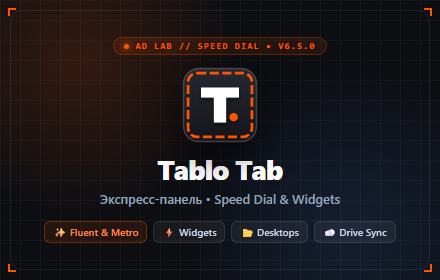
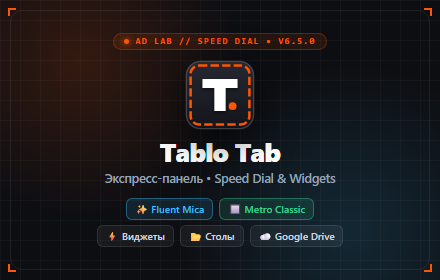
Fix syntax errors, update styles to Fluent Mica & Metro Classic, pre-render description/changelog in DOM, update promo tile tags

Changed region(s): [[0.0886, 0.1143, 0.8864, 0.8857]]

diff --git a/project-0001/index.html b/project-0001/index.html
@@ -334,7 +334,35 @@
         </h3>
 
         <div class="space-y-4 text-sm font-sans-ui text-[var(--text)] leading-relaxed" id="txt-full-article">
-          <!-- Генерируется через JS для RU/EN -->
+          <p>
+            <strong>Tablo Tab</strong> — авторское браузерное расширение нового поколения, превращающее стандартную новую вкладку Chromium в эстетичную, молниеносную персональную приборную панель с нулевым временем задержки при открытии.
+          </p>
+          <div class="grid grid-cols-1 md:grid-cols-2 gap-4 my-4 font-mono text-xs">
+            <div class="p-4 bg-[var(--panel-inner)] border border-[var(--border)] rounded-sm space-y-2">
+              <div class="text-[var(--tech-orange)] font-bold text-sm">ВИРТУАЛЬНЫЕ РАБОЧИЕ СТОЛЫ</div>
+              <p class="text-[var(--text-muted)] font-sans-ui">
+                Создавайте неограниченное число рабочих пространств (Workspaces): для работы, учебы, хобби или развлечений. Разделяйте закладки в 1 клик без визуального шума.
+              </p>
+            </div>
+            <div class="p-4 bg-[var(--panel-inner)] border border-[var(--border)] rounded-sm space-y-2">
+              <div class="text-[var(--tech-orange)] font-bold text-sm">4 ИНТЕРАКТИВНЫХ ВИДЖЕТА</div>
+              <p class="text-[var(--text-muted)] font-sans-ui">
+                Точное время с секундной стрелкой, живая погода без сторонних ключей API, актуальные котировки валют (USD, EUR, CNY) и криптовалют (BTC, ETH), а также быстрый To-Do блокнот.
+              </p>
+            </div>
+            <div class="p-4 bg-[var(--panel-inner)] border border-[var(--border)] rounded-sm space-y-2">
+              <div class="text-[var(--tech-orange)] font-bold text-sm">ПРИВАТНОСТЬ И БЕЗОПАСНОСТЬ</div>
+              <p class="text-[var(--text-muted)] font-sans-ui">
+                Никаких скрытых трекеров, аналитики и рекламных баннеров. Все данные хранятся локально в кэше браузера без отправки на серверы третьих лиц.
+              </p>
+            </div>
+            <div class="p-4 bg-[var(--panel-inner)] border border-[var(--border)] rounded-sm space-y-2">
+              <div class="text-[var(--tech-orange)] font-bold text-sm">БЭКАП НА GOOGLE ДИСК</div>
+              <p class="text-[var(--text-muted)] font-sans-ui">
+                Прямая авторизация через официальный OAuth2 API Google: бэкап и восстановление данных на ваш личный Google Диск в приватную защищенную папку расширения.
+              </p>
+            </div>
+          </div>
         </div>
       </section>
 
@@ -345,7 +373,45 @@
         </h3>
 
         <div class="space-y-4 font-mono text-xs" id="changelog-list">
-          <!-- Генерируется через JS для RU/EN -->
+          <div class="p-4 bg-[var(--panel-inner)] border border-[var(--border)] rounded-sm space-y-2">
+            <div class="flex items-center justify-between border-b border-[var(--border)] pb-2">
+              <span class="text-emerald-500 font-extrabold text-sm">v6.5.0 (Ноябрь 2026)</span>
+              <span class="text-xs bg-emerald-500/10 text-emerald-500 px-2 py-0.5 border border-emerald-500/30 font-bold">GLOBAL & FLUENT UPDATE</span>
+            </div>
+            <ul class="list-disc pl-5 space-y-1 text-[var(--text-muted)] font-sans-ui text-xs">
+              <li><strong>Независимый выбор формы:</strong> текстура («Чистое стекло» или «Классические» плитки) и скругление (0px – 24px) настраиваются отдельно.</li>
+              <li><strong>Синхронное скругление интерфейса:</strong> окно настроек и карточки динамически повторяют радиус скругления ваших плиток.</li>
+              <li><strong>Размер плиток в пикселях:</strong> живое масштабирование и пресеты 180px, 220px, 260px, 320px прямо на столе.</li>
+              <li><strong>Обновленная светлая тема (Light Silk):</strong> высокая контрастность, полупрозрачные белые контекстные меню и читаемые шрифты.</li>
+              <li><strong>Улучшенные смарт-виджеты:</strong> Блокнот, Погода и Курсы валют идеально сочетаются по стилю и скруглению с плитками сайтов.</li>
+              <li><strong>Скоростной Cloudflare-прокси:</strong> глобальная стабильность виджета погоды и умная локализация городов (Москва / London).</li>
+            </ul>
+          </div>
+
+          <div class="p-4 bg-[var(--panel-inner)] border border-[var(--border)] rounded-sm space-y-2">
+            <div class="flex items-center justify-between border-b border-[var(--border)] pb-2">
+              <span class="text-[var(--text-muted)] font-extrabold text-sm">v6.4.1 (19 октября 2026)</span>
+              <span class="text-xs bg-[var(--border)] text-[var(--text-muted)] px-2 py-0.5 border border-[var(--border)] font-bold">ПРЕДЫДУЩИЙ РЕЛИЗ</span>
+            </div>
+            <ul class="list-disc pl-5 space-y-1 text-[var(--text-muted)] font-sans-ui text-xs">
+              <li>Официальная релизная сборка для публикации в Google Chrome Web Store.</li>
+              <li>Поддержка стилей Fluent Mica и Metro Classic.</li>
+              <li>Интеграция 4 живых виджетов: Часы, Погода с геопозицией, Курсы валют, Блокнот.</li>
+              <li>Бесшовная OAuth2 синхронизация с личным хранилищем Google Диск.</li>
+            </ul>
+          </div>
+
+          <div class="p-4 bg-[var(--panel-inner)] border border-[var(--border)] rounded-sm space-y-2">
+            <div class="flex items-center justify-between border-b border-[var(--border)] pb-2">
+              <span class="text-[var(--tech-orange)] font-extrabold text-sm">v6.0.0 (Сентябрь 2026)</span>
+              <span class="text-xs bg-[var(--stamp-bg)] text-[var(--tech-orange)] px-2 py-0.5 border border-[var(--tech-orange)]/30 font-bold">АРХИТЕКТУРНЫЙ АПГРЕЙД</span>
+            </div>
+            <ul class="list-disc pl-5 space-y-1 text-[var(--text-muted)] font-sans-ui text-xs">
+              <li>Полный переход расширения на современный стандарт Chrome Manifest V3.</li>
+              <li>Создана система виртуальных рабочих пространств (Workspaces) с drag-and-drop сортировкой.</li>
+              <li>Добавлено быстрое сохранение вкладок через контекстное меню браузера.</li>
+            </ul>
+          </div>
         </div>
       </section>
 
@@ -732,9 +798,6 @@
       if (btn5) btn5.textContent = (lang === 'ru') ? '5. Виджеты' : '5. Smart Widgets';
 
       setScreenshot(currentScrIdx);
-      applyTheme(currentTheme);
-      localStorage.setItem('adlab_lang', lang);
-    }
       applyTheme(currentTheme);
       localStorage.setItem('adlab_lang', lang);
     }

diff --git a/index.html b/index.html
@@ -233,11 +233,6 @@
 
           <div class="mt-3.5 relative overflow-hidden rounded-sm border border-[var(--border-subtle)] bg-black/40">
             <img src="assets/img/promo_tile_440x280.png" alt="Tablo Tab Preview" class="w-full h-44 sm:h-48 object-cover group-hover:scale-[1.02] transition-transform duration-300">
-            <div class="absolute bottom-2 left-2 flex flex-wrap gap-1 text-[9px] font-mono">
-              <span class="px-1.5 py-0.5 bg-black/80 backdrop-blur-sm text-blue-400 border border-blue-500/30">Fluent Mica</span>
-              <span class="px-1.5 py-0.5 bg-black/80 backdrop-blur-sm text-cyan-400 border border-cyan-500/30">Metro Classic</span>
-              <span class="px-1.5 py-0.5 bg-black/80 backdrop-blur-sm text-amber-400 border border-amber-500/30">OAuth2 Drive</span>
-            </div>
           </div>
 
           <div class="mt-3.5">
@@ -252,7 +247,7 @@
 
           <div class="mt-3.5 bg-[var(--panel-inner)] p-2.5 sm:p-3 border border-[var(--border)] space-y-1.5 font-mono text-[11px]">
             <div class="flex justify-between"><span class="text-[var(--text-muted)]" id="p1-spec-1-lbl">Платформа:</span><span class="text-[var(--text-heading)] font-semibold" id="p1-spec-1-val">Chromium (MV3)</span></div>
-            <div class="flex justify-between"><span class="text-[var(--text-muted)]" id="p1-spec-2-lbl">Стили:</span><span class="text-[var(--text-heading)] font-semibold" id="p1-spec-2-val">Fluent Mica & Metro</span></div>
+            <div class="flex justify-between"><span class="text-[var(--text-muted)]" id="p1-spec-2-lbl">Стили:</span><span class="text-[var(--text-heading)] font-semibold" id="p1-spec-2-val">Fluent Mica & Metro Classic</span></div>
             <div class="flex justify-between"><span class="text-[var(--text-muted)]" id="p1-spec-3-lbl">Синхронизация:</span><span class="text-emerald-500 font-semibold" id="p1-spec-3-val">Google Диск OAuth2</span></div>
           </div>
         </div>
@@ -279,11 +274,6 @@
 
           <div class="mt-3.5 relative overflow-hidden rounded-sm border border-[var(--border-subtle)] bg-black/40">
             <img src="assets/img/onebag_promo_440x280.png" alt="OneBag Universal Cart Preview" class="w-full h-44 sm:h-48 object-cover group-hover:scale-[1.02] transition-transform duration-300">
-            <div class="absolute bottom-2 left-2 flex flex-wrap gap-1 text-[9px] font-mono">
-              <span class="px-1.5 py-0.5 bg-black/80 backdrop-blur-sm text-orange-400 border border-orange-500/30">Chromium MV3</span>
-              <span class="px-1.5 py-0.5 bg-black/80 backdrop-blur-sm text-emerald-400 border border-emerald-500/30">Multi-Store</span>
-              <span class="px-1.5 py-0.5 bg-black/80 backdrop-blur-sm text-cyan-400 border border-cyan-500/30">Price Radar</span>
-            </div>
           </div>
 
           <div class="mt-3.5">
@@ -520,7 +510,7 @@
           spec1Lbl: 'Платформа:',
           spec1Val: 'Chromium (MV3)',
           spec2Lbl: 'Стили:',
-          spec2Val: 'Fluent Mica & Metro',
+          spec2Val: 'Fluent Mica & Metro Classic',
           spec3Lbl: 'Синхронизация:',
           spec3Val: 'Google Диск OAuth2',
           type: 'ТИП: СОФТ',
@@ -570,7 +560,7 @@
           spec1Lbl: 'Platform:',
           spec1Val: 'Chromium (MV3)',
           spec2Lbl: 'Styles:',
-          spec2Val: 'Fluent Mica & Metro',
+          spec2Val: 'Fluent Mica & Metro Classic',
           spec3Lbl: 'Cloud Sync:',
           spec3Val: 'Google Drive OAuth2',
           type: 'TYPE: SOFTWARE',
@@ -602,24 +592,6 @@
           spec3Lbl: 'Stage:',
           spec3Val: 'Prototype Assembly',
           type: 'TYPE: HARDWARE',
-          btn: 'TECH DOSSIER ➔'
-        },
-        banner: {
-          title: 'PRIVACY // AD LAB',
-          text: 'This website utilizes local browser storage (localStorage) strictly to preserve your selected theme and language preferences. Zero analytics, zero ad trackers.',
-          more: 'Website Privacy Policy ➔',
-          btn: 'ACCEPT'
-        }
-      }
-    };
-          desc: 'Universal wishlist and cross-store price radar for marketplaces. Real price dynamics, fake discount detection, and offline-first storage.',
-          spec1Lbl: 'Platform:',
-          spec1Val: 'Chromium (MV3)',
-          spec2Lbl: 'Marketplaces:',
-          spec2Val: 'Yandex, Ozon, WB, Ali',
-          spec3Lbl: 'Stage:',
-          spec3Val: 'Active R&D / Alpha v1.8.1',
-          type: 'TYPE: SOFTWARE',
           btn: 'TECH DOSSIER ➔'
         },
         banner: {
